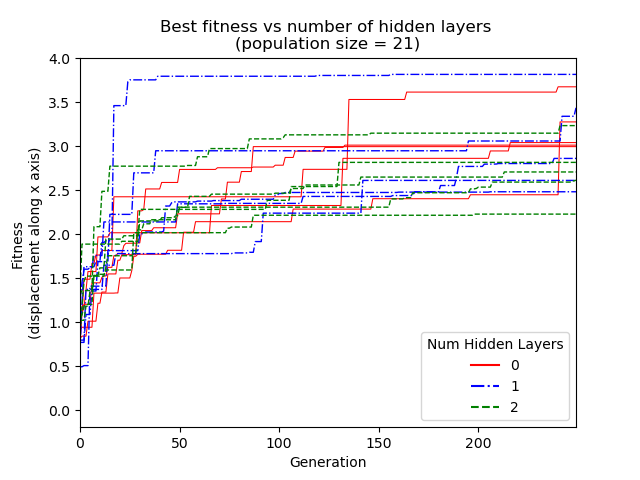
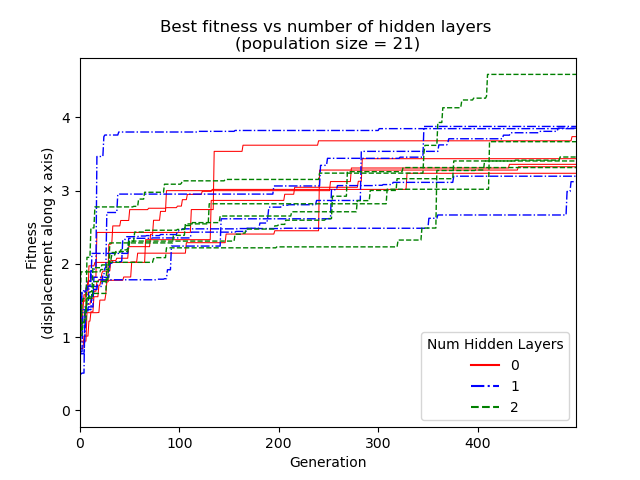
final project documentation

diff --git a/README.md b/README.md
@@ -9,7 +9,7 @@ This code runs on Python 3.9.13
 Dependencies are managed through an Anaconda environment.
 To copy this the environment, first [install Anaconda](https://docs.anaconda.com/anaconda/install/index.html). Then, run 
 ```bash
-conda env create --name <new environment name> --file ludobot_env.txt
+conda env create --name <new environment name> --file ludobot_env.yml
 ```
 Before running anything, make sure to first activate the environment with
 ```bash
@@ -19,15 +19,15 @@ conda activate <new environment name>
 Instructions on running the code are as follows:
 Use the command 
 ```bash 
-python search.py <seed>
+python search.py <seed> <number of hidden layers>
 ``` 
-to start running the simulation. 
-For running multiple searches in a row, first set the list of desired seeds in line 1 of the file `run-search.sh`. Then run the command
-```bash
-sh search.py
-```
-Both error messages and console outputs will be saved in the file "out\<seed>.txt". A numpy array of fitness values as well as brain.nndf and body.urdf files for the best robots will be saved in a folder named <seed>.
-To analyze a certain search by showing and saving a fitness curve (plot of best fitness value for each generation), run the command with one or more seeds
+To start running the simulation. Number of [hidden layers](!!!!!LINK TO FIGURE!!!!!!!!!) should be 0, 1, or 2.  
+A numpy array of fitness values as well as brain.nndf and body.urdf files for the final robots will be saved in the folder "./seed".  
+Simulations can be also resumed using the same command. Make sure that the number of hidden layers is the same as what was used for the original simulation.
+
+<br>
+
+To analyze a certain search by showing and saving a fitness curve (plot of best fitness value at each generation), run the following command with one or more seeds
 ```bash
 python analyze.py GUI <list of seeds>
 ```
@@ -37,72 +37,93 @@ python simulate.py GUI <solutionID> <seed>
 ```
 Parameters such as number of generations and population size, and simulation length can be set in the file `constants.py`.
 
-NOTE: The code has only been tested running from a Git Bash terminal on a windows machine.
+NOTE: The code has only been tested running from a Git Bash terminal on a Windows machine.
 
-# Assignment 8: random 3D morphologies
-[Assignment 8](https://youtu.be/nzlCZm1mh3U), found on the [`evolve-random-body`](https://github.com/taliabn/my-ludobots/tree/evolve-random-body) branch, adds the capability to evolve both brains and bodies simultaneously.
-
-## Simulation Results
-### Evaluation
-The fitness function used to select creatures after each generation of evolution is displacement of the root link in the negative x direction. A hillclimber algorithm is used, meaning that parents are compared to children, and if the child has a better fitness, it replaces the parent in the population. Figure 1 shows an example of evolution for five trials, each starting from a different random seed. [These parameters](#parameters) were used in this simulation, and can be changed in `constants.py`.
-
-![Line graph of fitness curves](/figures/a8-fitness-curves.png )
+# Final project
+The [final project](https://youtu.be/uux9ZBXE7Lc) uses this codebase to compare brain architectures of robots evolved for locomotion.
+![simple simulated robots moving to the left](/figures/10s-highlights.gif) 
 
 
-**Figure 1. Fitness for five trials, each for 150 generations with a population of 30**
+## **Hypothesis**
+At a high level, robots move using hinge joints with motors that rotate the links (cube-shaped rigid body parts) they are attached to towards a desired angle. This target angle is informed by data from sensors that detect whether or not the link it is attached to is currently making contact with the floor. The robot's "brain" plays the role of mapping these sensor values to target motor angles.
+
+A brain is comprised of neurons and synapses. A neuron is a node that is associated with a certain sensor or motor. Synapses connect these neurons, and they indicate how much to scale the value from the incoming pre-synaptic neuron. A motor neuron's value is the sum of all its incoming synapses. A sensor neuron's value is the value of the sensor.
+
+To potentially allow for more complex pattern recognition, brains can also contain hidden neurons, which means that sensor neurons are not diretly wired to motor neurons.  A hiden neuron's value is the sum of all its incoming synapses.
+
+This project tests the hypothesis that having different numbers of hidden layers of neurons will make a difference on a final evolved robot's ability to move in the x-direction. 
+
+The three brain architectures tested are illustrated in figure 1. For the simulations, actual robot brains had 4 hidden neurons in each layer, if present. The number of sensor neurons and motor neurons depended on the specific robot's body.
+
+![figure illustrating brain architectures that resemble neural networks](/figures/hidden-layers.png) 
+
+#### **Figure 1.** Possible structures of creature brains
+
+<br>
+
+## **Methods**
+This hypothesis was tested using evolution simulations for each of the three possible brain architectures.
+Each of the three experimental groups had 10 trials of simulated evolution, and each trial started from a specific random seed for reproducability purposes. Each evolution simulation used an initial population of 21 parents and ran for 500 generations.  
+
+<br>
+
+## Evolution Process
+Both robot brains and bodies are initially randomly generated, and are then iteratively improved on using a *parallel hillclimber* evolutionary algorithm. The general process, which is summarized in Figure 2, starts by generating a random population of parents. Then, for each generation of evolution, children are spawned by copying and mutating parents and children are evaluated through simulation. Next, if a child performs better than its' parent, the child replaces the parent in the population.
 
 
-### Fitness function flaws
+![flowchart of evolution using hillclimber algorithm](/figures/evolution-flowchart.png) 
+Figure 2. Evolution Process
+
+
+The fitness function used to select creatures after each generation of evolution is total displacement of the root link (starting body part) in the negative x direction. 
+
+### Fitness Function Flaws
 One issue with this fitness function is that sometimes tall creatures that fall over in the x direction are favored. To mitigate this risk, starting position of the root was lowered from [0,0,3] to [0,0,1.5]. This reduced the chance of winning creatures being those that fall, but has the disadvantage of limitting the potential morphospace by allowing for fewer links to grow in the z direction.  
 
-Number of body lengths traveled in the x direction was also tested as a fitness function, but this led to evolution focusing more on making creatures very skinny rather than optimizing for locomotion. Using total displacement as the, which was the final choice, ought not to be too biased towards large creatures because displacement is measured from the center of the root link, which is usually towards the middle of the body.
+Number of body lengths traveled in the x direction was also tested as a fitness function, but this led to evolution focusing more on making creatures very skinny rather than optimizing for locomotion.
 
+Finally, after starting to move, some creatures ended up bouncing off the floor in a way that sent them flying. Such robots were excluded in the final analysis.  
 
-### Conclusions
-From this simulation, there were several common features found in the most successful evolved creatures. This [video](https://youtu.be/nzlCZm1mh3U) demonstrates both random and evolved bodies in action. In general, many of the best creatures had some (not all) of the following traits:
-* Sensors on links touching the ground (green cubes)
-* No sprawling body plans, relatively compact
-* Bilateral symmetry
-* Galloping-like motion
-* Non-sensing base on top of single row of identical "legs"
-* "Tails" helping the creature balance and lean in the correct direction
+<br>
 
-Note that many of the best body plans appear to primarily grow along one axis, but the morphospace allows for more diverse structures. See the following section for details.
-
-## Method to Generate Bodies
+## Generating Bodies
 3D bodies are recursively generated using graph-based body plans, a method that is heavily influenced by [Karl Sims'](https://www.karlsims.com/evolved-virtual-creatures.html) work<sup>[[1]](#1-evolving-virtual-creatures-ksims-computer-graphics-siggraph-94-proceedings-july-1994-pp15-22)</sup>.
 
-Properties of creatures are divided into two categories, those randomly generated for each creature and those determined by "DNA" genotype that identifies a general body plan. This means that it is *not* a direct encoding between phenotypes and genotypes. See Table 1  for a summary. The body plan genotype graph encodes the number of uniqe link types, number of children for each link, and number of clones of each link (self edges). Each unique link (represented as a `UniqueNode` class in `body.py`) has its own dimensions, joint axis, orientation, and presence of sensor and corresponding color. See Figure 2 for an example of how body plans are generated.   
+Properties of creatures are divided into two categories, those randomly generated for each creature and those determined by "DNA" genotype that identifies a general body plan. This means that it is *not* a direct encoding between phenotypes and genotypes. See Table 1  for a summary. The body plan genotype graph encodes the number of uniqe link types, number of children for each link, and number of clones of each link (self edges). Each unique link (represented as a `UniqueNode` class in `body.py`) has its own dimensions, joint axis, orientation, and presence of sensor and corresponding color. See Figure 3 for an example of how body plans are generated.   
 
 When running the simulation in GUI mode, links with sensors are colored green, and links without sensors are colored blue. Parameters dictating the range of link side lengths and the maximum number of links can be set in `constants.py`. 
 
 
-| random | encoded |
+| Random | Encoded |
 | ------ | ------- |
 | link dimensions | number of unique link types (nodes)
 | sensor placement | number of clones (self edges)
 | joint axis and directionality | number of new children (edges to next node)
 
-**Table 1. Summary of random vs encoded body part properties**
+#### **Table 1.** Summary of random vs encoded body part properties
 
-![figure explaining how a numerical encoding of a body plan is transformed into a virtual creature](/figures/a7-fig1.png) 
+![figure explaining how a numerical encoding of a body plan is transformed into a virtual creature](/figures/a7-fig1.png)   
 
-**Figure 2. Body plan encoding to pheontype relationship**
+<br>
+
+#### **Figure 3.** Body plan encoding to pheontype relationship  
+
+
 
 Note that this *indirect encoding* mechanism has an important implication: a single genotype can lead to multiple phenotypes. 
 
-To ensure that body plans follow basic laws of physics, before adding a link to the body, we check that there is no existing link in the same absolute position, preventing overlapping body parts. This means that some links specified by the genotype may not end up in the final body. To allow for freer growth in the z-direction, the creature starts at an absolute position of [0,0,1.5] and drops to the ground when the simulation starts. Additionally, we check that the absolute z position of a link isn't negative (i.e below the floor) before adding it.
+To ensure that body plans follow basic laws of physics, before adding a link to the body, we check that there is no existing link in the same absolute position, preventing overlapping body parts. This means that some links specified by the genotype may not end up in the final body. To allow for freer growth in the z-direction, the creature starts at an absolute position of [0,0,1.5] and drops to the ground when the simulation starts. Additionally, the code checks that the absolute z position of a link isn't negative (i.e below the floor) before adding it.
 
 
-### Benefits:
+#### Benefits:
 * Duplicated body parts create symmetry, which mimics nature
 * Indirect encoding enables diversity of creatures and also mimics nature
 
-### Drawbacks:
-* linear graph structure: each unique node only connects to next unique node
-* 2 children edges per node maximum
-* can only branch at right angles
-* symmetry can limit the potential morphospace  
+#### Drawbacks:
+* Linear graph structure: each unique node only connects to next unique node
+* 2 outgoing child edges per node maximum
+* Can only branch at right angles
+* Symmetry can limit the potential morphospace  
 
 
 <br>
@@ -110,70 +131,149 @@ To ensure that body plans follow basic laws of physics, before adding a link to 
 ##### [1] "Evolving Virtual Creatures" K.Sims, Computer Graphics (Siggraph '94 Proceedings), July 1994, pp.15-22.  
 <br>
 
-## Method to Generate Brains
-Brains have a structure resembling that of a traditional feed forward neural network. There is one sensor neuron for each link with a sensor and one motor neuron for each link. Sensor neurons are connected to a layer of hidden neurons which are then connected to motor neurons. All synsapses start with a random weight between -1 and 1. The number of sensor and motor neurons is specific to each body plan, and `numHiddenNeurons` can be specified in `constants.py`. See Fig. 3 for an example of brain structure.
+## Generating Brains
+Brains have a structure resembling that of a traditional feed forward neural network, see [Figure 1](#figure-1-possible-structures-of-creature-brains) for details. All synsapses start with a random weight between -1 and 1, inclusive. The number of sensor and motor neurons is specific to each body plan, and `numHiddenNeurons` can be specified in `constants.py`. Simulations for the final project tested usig 0, 1, and 2 layers of hidden neurons. Code differentiating these trials is in the `Gen_*_Hidden_Brain_nndf` and `Mutate_*_Hidden_Brain()` functions in `body.py`.
 
-![figure illustrating structure that resembles a neural network](/figures/a7-fig2.png) 
 
-**Figure 3. Structure of creature brains**  
-
-<br>
-
-## Method to Mutate Brains and Bodies
+## Mutating Brains and Bodies
 During a cycle of evolution, each individual in the population undergoes exactly *one* mutation. The process for choosing which element to mutate is detailed in Figure 4. Each branch in the flowchart is equally likely to be taken, except for the initial decision between mutating the brain or the body. This choice is weighted so that body mutations are more likely earlier in evolution and brain mutations are more likely in later generations. This balances exploring more of the morphospace with fine tuning a certain body for motion.
 
 ![flowchart that resembles a decision tree explaining possible mutations](/figures/a8-fig1.png) 
-**Figure 4. Flowchart of possible mutations**
-
-For mutating brains, it is useful to make the distinction that synapse weights are not related to the UniqueNode object that their associated links came from. However, synapse weights are preserved from generation to generation, except for the cases where a pre-existing link was removed or a new link was added. The number of links can change if the number of edges of a unique node change or if the dimensions or orientation of a link are mutated such that it will go below the floor or change which potential future links will or will not overlap with it.
-
-It is important to note that certain types of mutations are not permitted, namely removing a unique node or adding a new unique node to a body plan. Changing the number of hidden neurons or structure of the brain is also not possible. These decisions were made because larger mutations are more likely to be harmful in the process of evolutions.
+#### **Figure 4. Flowchart of possible mutations**
 
 <br>
 
-## Parallel Computing
-Since evolution trials are computationally expensive and time intensive to run, this version of the code allows for parallel execution of simulations using the [`pathos`](https://pypi.org/project/pathos/) multiprocessing framework. Previous iterations of the code ran simulations concurrently, but coordination and communication between processes used disk files as an intermediate, which was slow and caused the simulation to sometimes raise file permission errors. The new method using multiprocessing circumvents that error and explicitly instructs the simulation processes to run in parallel, which was not gauranteed in previous versions of the code.   
-Simulations for assignment 8 were run using 7 logical CPUs on a windows machine that has 8 total available.
+For mutating brains, it is important to make the distinction that synapse weights are not related to the UniqueNode object that their associated links were generated from. However, synapse weights are preserved from generation to generation, except for the cases where a pre-existing link was removed or a new link was added. The number of links can change if the number of edges of a unique node change or if the dimensions or orientation of a link are mutated such that it will go below the floor or change which potential future links will or will not overlap with it.
+
+It is also important to note that certain types of mutations are not permitted, namely removing a unique node or adding a new unique node to a body plan. Changing the number of hidden neurons or structure of the brain is also not possible. These decisions were made because larger mutations are more likely to be harmful in the process of evolutions.
+
+<br>
+
+## Simulation Scale and Parallel Computing
+Simulations for the final project were run in parallel using 7 logical CPUs on a Windows machine that has 8 total available. The choice to use a population size of 21 was purposefully made so that each CPU had an equal number of tasks to run, meaning that processors were not left idle. This led to significant speedup on average *per simulation* as compared to a population size of 30, which was used in previous assignments.
+
+The final project used a total of 315,000 simulations (3 experimental groups * 10 random seeds * 21 parents * 500 generations). This took just over **23 hours** to run, meaning an average of 46 minutes per trial (one random seed and one experimental group). 
+
+This was made possible by parallel execution of simulations using the [`pathos`](https://pypi.org/project/pathos/) multiprocessing framework. Previous iterations of the code ran simulations concurrently, but coordination and communication between processes used disk files as an intermediate, which was slow and caused the simulation to sometimes raise file permission errors. The new method using multiprocessing circumvents that error and explicitly instructs the simulation processes to run in parallel, which was not gauranteed in previous versions of the code. Usage of the multiprocessing framework led to significant performance improvements. It was not possible to measure performance of the previous non-parallel version of the code since it crashed for large population sizes and number of generations, so the speedup is not quantifiable.
 
 <br>
 
 ## Parameters
-The following parameters were used in the final simulations for assignmment 8:
-* `populationSize = 30`
-* `numberOfGenerations = 150`
-* `steps = 1000`
+The following parameters were used in the final simulations:
+* `populationSize = 21`
+* `numberOfGenerations = 500`
+* `steps = 750`
 * `stepLength = 1/120`
 * `numHiddenNeurons = 4`
 * `motorJointRange = 1`
-* `maxMotorForce = 30`
+* `maxMotorForce = 20`
 * `maxNumNodes = 4`
-* `maxNumSelfEdges = 3`
+* `maxNumSelfEdges = 2`
 * `maxNumChildEdges = 2`
 * `minSideLen = 0.1`
 * `maxSideLen = 0.75`
 * `startingPos = [0, 0, 1.5]`  
 
+These values can be changed in the file `constants.py`
+
+<br>
+
+## **Results**
+For each experimental group, plots with the fitnesses for the best individual in the population at each generation can be found in Figures 5-7. Note that some creatures had invalid forms of motion such as bouncing off the floor and flying into the air. These were excluded in the final analysis.
+
+![fitness curves for robots with brains with 0 hidden layers](/figures/NH-0-valid-500gen-fitnessPlot.png)
+#### **Figure 5.** Fitness curves for brains with 0 hidden layers
+
+![fitness curves for robots with brains with 1 hidden layer](/figures/NH-1-valid-500gen-fitnessPlot.png)
+#### **Figure 6.** Fitness curves for brains with 1 hidden layer
+
+![fitness curves for robots with brains with 2 hidden layers](/figures/NH-2-valid-500gen-fitnessPlot.png)
+#### **Figure 7.** Fitness curves for brains with 2 hidden layers      
+
+<br>
+
+Fitness increases asymptotically over time, which is typical for evolutionary algorithms and neural networks.   
+
+<br>
+
+To directly compare the effects of number of hidden layers, fitness curves from the best 5 seeds for each experimental group are plotted together in Figure 7.   
+
+![fitness curves for robots with brains with 2 hidden layers](/figures/NH-comp-5-valid-500gen-fitnessPlot.png)
+#### **Figure 7.** Effects of number of hidden layers on fitness  
+
+<br>  
+
+Data and body/brain files from these simulations can be found in the folder "data-final-project". These files can be used to rerun a certain simulation in GUI mode or to continue evolution. To continue evolution, first increase `numberOfGenerations` in constants.py.  
+
+
+<br>
+
+## Analysis
+From looking at the plots, it is unclear which brain architecture is better. Code used to perform further statistical analysis can be foundd in the file `stats.R`, which operates on numbers scraped using `clean.py`. The statistics investigated the final fitnesses for each individual in the population. Specifically, for each seed, the test statistics were median fitness, the best indivividual, and the mean of the best 5 individuals. Each of the three statistics was used seperately to compare each of the three experimental groups to each other using hypothesis tests.
+
+Using a standard t-test, *no significant difference* was found between the best or median final fitnesses and the number of hidden layers in a robot's brain. The same conclusions can be made using the Wilcoxon rank sum test.
+
+The only exception was if a confidence level of 10% was used, when looking at the best 5 final fitnesses, there was weak evidence (p-value = 0.076) to suggest that 0 hidden layers had lower fitness than 2 hidden layers. Again, the wilcox test led to the same conclusion (p-value = 0.090). 
+
+Final fitnesses for the best 5 individuals from each seed are compared in Figure 7.
+![boxplot comparing best fitnesses from the three experimental groups](/figures/best5-boxplot.png)
+#### **Figure 7.** Distributions of best 5 individuals from each seed
+
+<br>
+
+## Conclusions
+There is little statistically significant evidence to suggest that the number of hidden layers has an impact on the best final evolved robot's capabilities for locomotion. A possible explanation is that the amount of randomness in the generated robot's bodies and the evolution process shadows any possible trends in effects of brain architecture.
+
+
+Outside of number of hidden layers, in these simulations there were several common features found in the **bodies** of the most successful evolved creatures. In general, many of the best creatures had some (not all) of the following traits:
+* Sensors on links touching the ground (green cubes)
+* No sprawling body plans, relatively compact
+* Bilateral symmetry
+* Galloping-like motion
+* Non-sensing base on top of single row of identical "legs"
+* "Tails" helping the creature balance and lean in the correct direction
+
+Note that many of the best body plans appear to primarily grow along one axis, but the morphospace allows for more diverse structures. See the section on [Generating Bodies](#generating-bodies) for details.
+
+<br>
+
+## Next Steps
+Future work can test the same hypothesis with additionaly simulations by increasing the population size, number of generations, and number of trials.
+
+Other interesting hypotheses might relate to the evolutionary algorithm used or the method the robots are replicated and mutated. For instance, future experiments could investifate sexual reproduction where parent's body plans and brains are combined with crossover and then mutated.  
+Also the data is somewhere!!!!!!!!!!!!!!!!!!!!!!!!!!!
+<br>
 
 # Previous Assignments
 
-### Assignment 7: random 3D morphologies
+### Assignment 8: Evolving bodies
+[Assignment 8](https://youtu.be/nzlCZm1mh3U) adds the capability to evolve brains and bodies simultaneously. See the branch [`evolve-random-bodies`](https://github.com/taliabn/my-ludobots/tree/evolve-random-body) for further details.  
+
+
+### Assignment 7: Random 3D morphologies
 [Assignment 7](https://youtube.com/shorts/HM3KmLzGZqs?feature=share) adds the capability to randomly generate morphologies that fill three dimensional space. See the branch [`random-3D-bodies`](https://github.com/taliabn/my-ludobots/tree/random-3D-bodies) for further details.
 
 
-### Assignment 6: random 1D morphologies
-[Assignment 6](https://youtu.be/uXb1K-MACNE) adds the capability to randomly generate morphologies in one dimensions. See the branch [`random-1D-bodies`](https://github.com/taliabn/my-ludobots/tree/random-1D-bodies) for further details.
+### Assignment 6: Random 1D morphologies
+[Assignment 6](https://youtu.be/uXb1K-MACNE) adds the capability to randomly generate morphologies in one dimensions. See the branch [`random-1D-bodies`](https://github.com/taliabn/my-ludobots/tree/random-1D-bodies) for further details.  
+
 
 ### Assignment 5: Ludobots Final Project
-The [Ludobots final project](https://youtu.be/qypMeX9zdyQ),  demonstrates the use of a Parallel hillclimber and an evolution through random mutations to create robots that can climb a set of stairs. See the branch [`ludobots-final-project`](https://github.com/taliabn/my-ludobots/tree/ludobots-final-project) for further details.
+The [Ludobots final project](https://youtu.be/qypMeX9zdyQ),  demonstrates the use of a Parallel hillclimber and an evolution through random mutations to create robots that can climb a set of stairs. See the branch [`ludobots-final-project`](https://github.com/taliabn/my-ludobots/tree/ludobots-final-project) for further details.  
+
 
 ### Assignments 1-4:
 See [ludobots](https://www.reddit.com/r/ludobots/) online course on Evolutionary Robotics for further details. Code can be found in branches up until 'ludobots-final-project'.
+
+<br>
 
 # Contact
 
 Talia Ben-Naim: taliaben-naim2025@u.northwestern.edu  
 [LinkedIn](www.linkedin.com/in/talia-ben-naim
 )
+
+<br>
 
 # Acknowledgments
 
